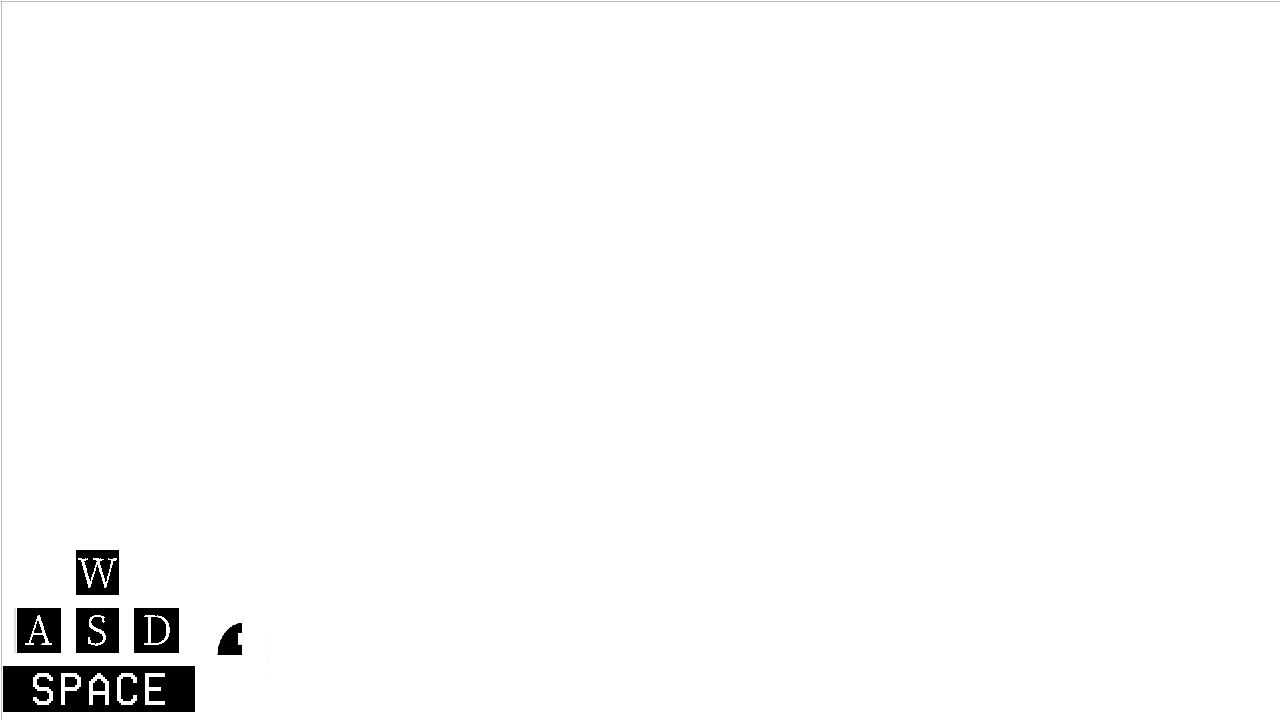
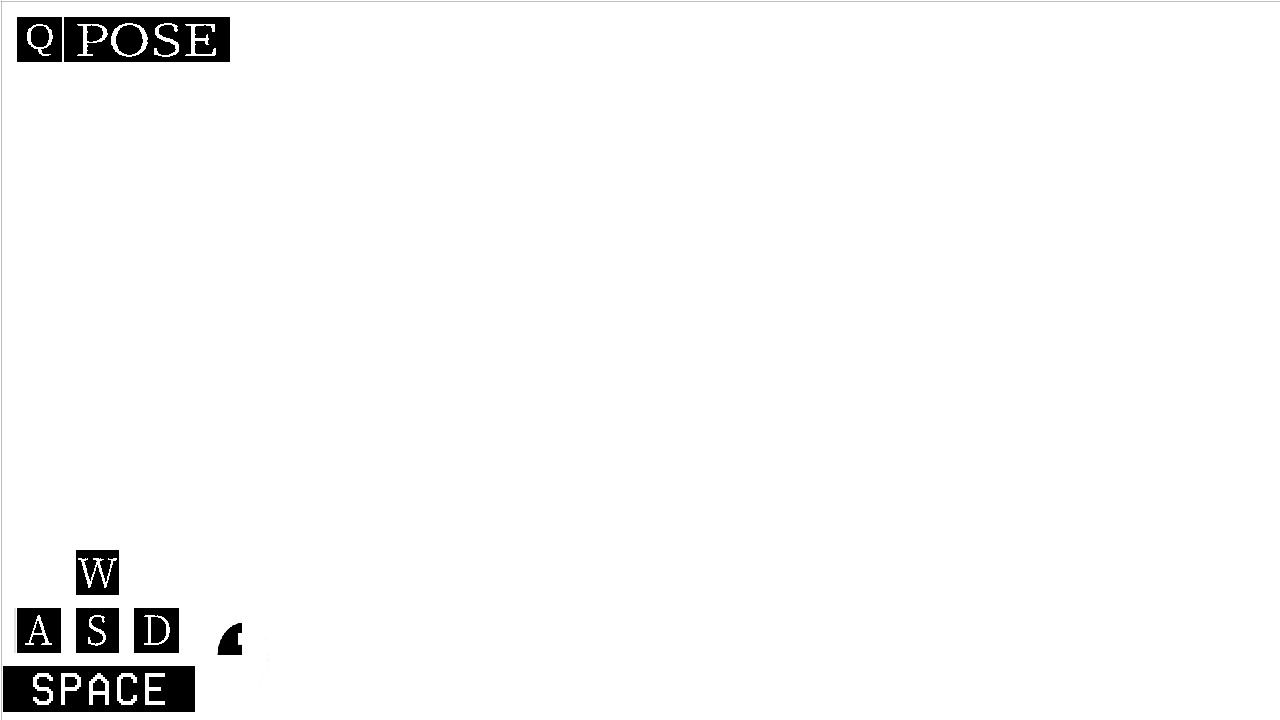
リソースの変更、ポーズの処理の関数化

Changed region(s): [[0.0, 0.0, 0.1875, 0.0917]]

diff --git a/SourceCode/application/scene/GamePlayScene.cpp b/SourceCode/application/scene/GamePlayScene.cpp
@@ -152,7 +152,6 @@ void GamePlayScene::Finalize()
 
 void GamePlayScene::Update()
 {
-	Input* input = Input::GetInstance();
 	Audio* audio = Audio::GetInstance();
 	//ゲームプレイが始まったら音を消す
 	audio->SoundStop("water.wav");
@@ -213,54 +212,8 @@ void GamePlayScene::Update()
 		door->Update();
 	}
 
-	if (input->TriggerKey(DIK_Q)) {
-		if (!poseFlag) {
-			poseFlag = true;
-			standbyFlag = true;
-		}
-	}
-
-	if (poseFlag) {
-		if (input->TriggerKey(DIK_RIGHT) && standbyFlag) {
-			standby2Flag = true;
-			standbyFlag = false;
-		}
-		if (input->TriggerKey(DIK_LEFT) && standby2Flag) {
-			standby2Flag = false;
-			standbyFlag = true;
-		}
-		if (input->TriggerKey(DIK_SPACE)) {
-			if (standbyFlag && !standby2Flag) {
-				audio->SoundStop("gamePlay.wav");
-				//シーン切り替え
-				BaseScene* scene = new TitleScene();
-				this->sceneManager->SetNextScene(scene);
-			}
-			if (!standbyFlag && standby2Flag) {
-				poseFlag = false;
-			}
-		}
-		for (auto& front : frontEnemy) {
-			front->StopUpdate();
-		}
-		for (auto& left : leftEnemy) {
-			left->StopUpdate();
-		}
-		for (auto& right : rightEnemy) {
-			right->StopUpdate();
-		}
-		for (auto& back : backEnemy) {
-			back->StopUpdate();
-		}
-		player->StopUpdate();
-	}
-	else {
-		standbyFlag = true;
-		standby2Flag = false;
-	}
-
-	//クリアしたときの関数
-	Clear();
+	//ポーズ画面
+	Pose();
 
 	//ゲームオーバーになった時
 	Failed();
@@ -290,7 +243,8 @@ void GamePlayScene::Update()
 void (GamePlayScene::* GamePlayScene::gProgress[])() = {
 	&GamePlayScene::Air,
 	&GamePlayScene::Landing,
-	&GamePlayScene::GameStart
+	&GamePlayScene::GameStart,
+	&GamePlayScene::Clear
 };
 
 //スタート時空中にいるときの関数
@@ -424,6 +378,69 @@ void GamePlayScene::GameStart()
 		nowCamera = camera.get();
 		Object3d::SetCamera(nowCamera);
 	}
+
+	//クリア条件
+	if (fEneCount >= 10 && lEneCount >= 6 && rEneCount >= 4 && bEneCount >= 3) {
+		gamePhase = GamePhase::Clear;
+		clearFlag = true;
+		audio->SoundStop("gamePlay.wav");
+	}
+}
+
+void GamePlayScene::Pose()
+{
+	Input* input = Input::GetInstance();
+	//Qキー押したらフラグを立てる
+	if (input->TriggerKey(DIK_Q)) {
+		if (!poseFlag) {
+			poseFlag = true;
+			standbyFlag = true;
+		}
+	}
+
+	if (poseFlag && !clearFlag) {
+		//フラグが立った状態で右を押したらフラグを切り替える
+		if (input->TriggerKey(DIK_RIGHT) && standbyFlag) {
+			standby2Flag = true;
+			standbyFlag = false;
+		}
+		//フラグが立った状態で左を押したらフラグを切り替える
+		if (input->TriggerKey(DIK_LEFT) && standby2Flag) {
+			standby2Flag = false;
+			standbyFlag = true;
+		}
+		//スペースを押したときどっちのフラグが立ってるかで決める
+		if (input->TriggerKey(DIK_SPACE)) {
+			//ゲームを終了してタイトルに行く
+			if (standbyFlag && !standby2Flag) {
+				audio->SoundStop("gamePlay.wav");
+				//シーン切り替え
+				BaseScene* scene = new TitleScene();
+				this->sceneManager->SetNextScene(scene);
+			}
+			//そのまま続ける
+			if (!standbyFlag && standby2Flag) {
+				poseFlag = false;
+			}
+		}
+		for (auto& front : frontEnemy) {
+			front->StopUpdate();
+		}
+		for (auto& left : leftEnemy) {
+			left->StopUpdate();
+		}
+		for (auto& right : rightEnemy) {
+			right->StopUpdate();
+		}
+		for (auto& back : backEnemy) {
+			back->StopUpdate();
+		}
+		player->StopUpdate();
+	}
+	else {
+		standbyFlag = true;
+		standby2Flag = false;
+	}
 }
 
 void GamePlayScene::Clear()
@@ -431,11 +448,6 @@ void GamePlayScene::Clear()
 	float clearMove = 200;
 
 	Audio* audio = Audio::GetInstance();
-	//クリア条件
-	if (fEneCount >= 10 && lEneCount >= 6 && rEneCount >= 4 && bEneCount >= 3) {
-		clearFlag = true;
-		audio->SoundStop("gamePlay.wav");
-	}
 	//クリアフラグが立ったらif文通す
 	if (clearFlag) {
 		//クリアしたらイージングでクリアのスプライト動かす
